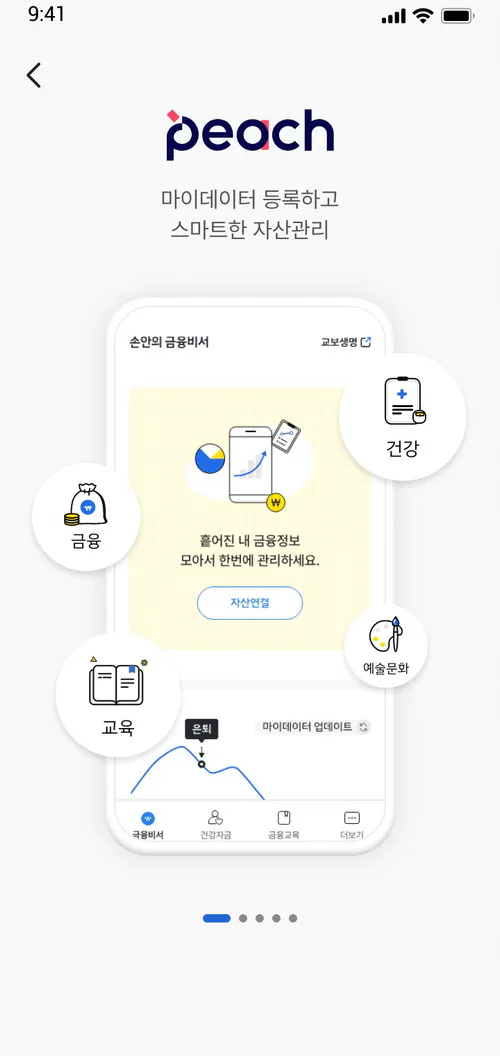
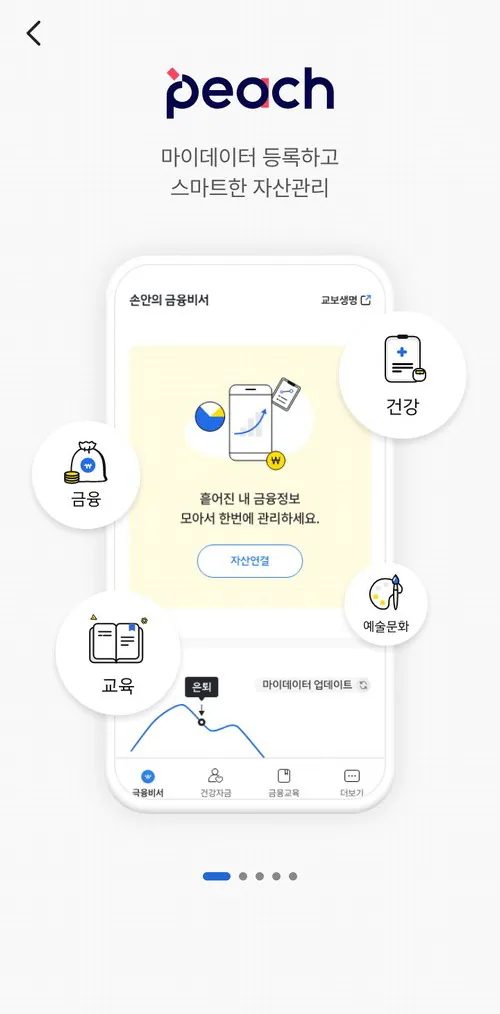
feat: update Peach screenshot, unmask puring, green Tech stack subheadings
- ab-peach: re-published from the user's revised source (status bar removed, 500x1014)
- kn-puring: mask removed at the user's request; noSensitive set
- .skills dt uses --color-accent (5.43:1 on white, 5.10:1 on surface)

diff --git a/index.html b/index.html
@@ -428,7 +428,7 @@
             <a class="shot-link" href="img/projects/ab-peach/ab-peach-500.jpg" aria-label="교보생명 금융 마이데이터 서비스 앱 ‘피치(Peach)’ 화면 크게 보기">
               <picture>
                 <source type="image/webp" srcset="img/projects/ab-peach/ab-peach-360.webp 360w, img/projects/ab-peach/ab-peach-500.webp 500w" sizes="200px">
-                <img src="img/projects/ab-peach/ab-peach-500.jpg" srcset="img/projects/ab-peach/ab-peach-360.jpg 360w, img/projects/ab-peach/ab-peach-500.jpg 500w" sizes="200px" alt="피치 앱 시작 화면, 마이데이터 등록 안내와 분야별 메뉴" width="500" height="1056" loading="lazy" decoding="async">
+                <img src="img/projects/ab-peach/ab-peach-500.jpg" srcset="img/projects/ab-peach/ab-peach-360.jpg 360w, img/projects/ab-peach/ab-peach-500.jpg 500w" sizes="200px" alt="피치 앱 시작 화면, 마이데이터 등록 안내와 분야별 메뉴" width="500" height="1014" loading="lazy" decoding="async">
               </picture>
             </a>
           </figure>

diff --git a/css/components.css b/css/components.css
@@ -759,7 +759,7 @@
   .skills dt {
     font-size: var(--text-label);
     font-weight: var(--weight-semibold);
-    color: var(--color-ink-3);
+    color: var(--color-accent); /* user request 2026-11-17: Tech stack subheadings in the main color (5.43:1 on white) */
   }
 
   .skills dd {
